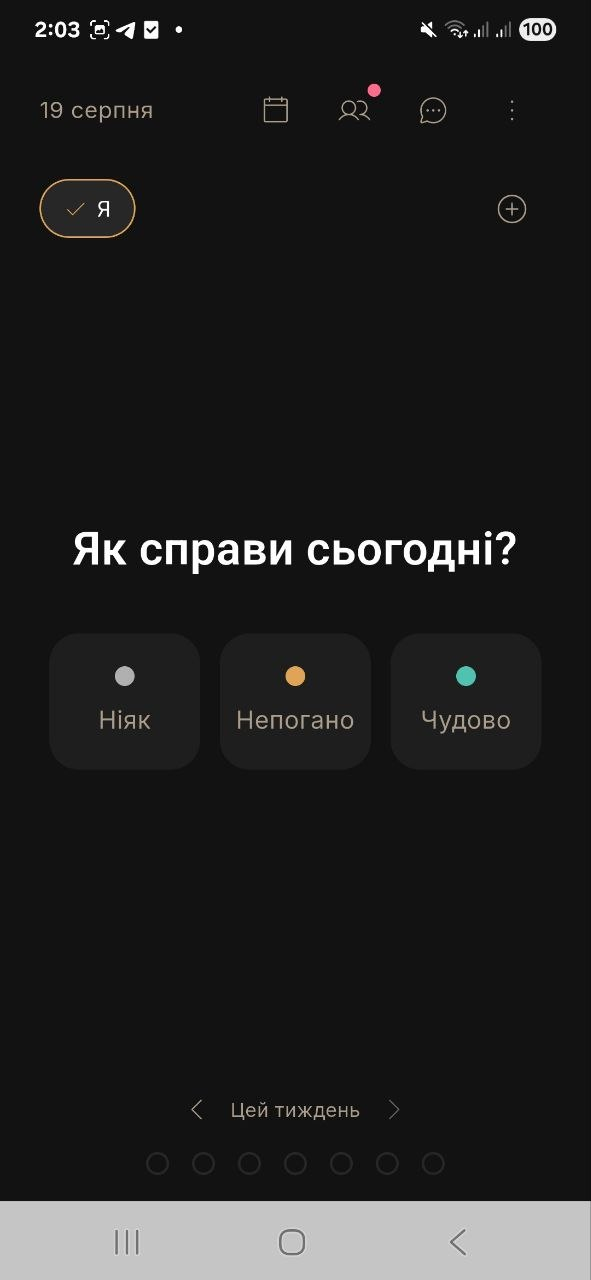
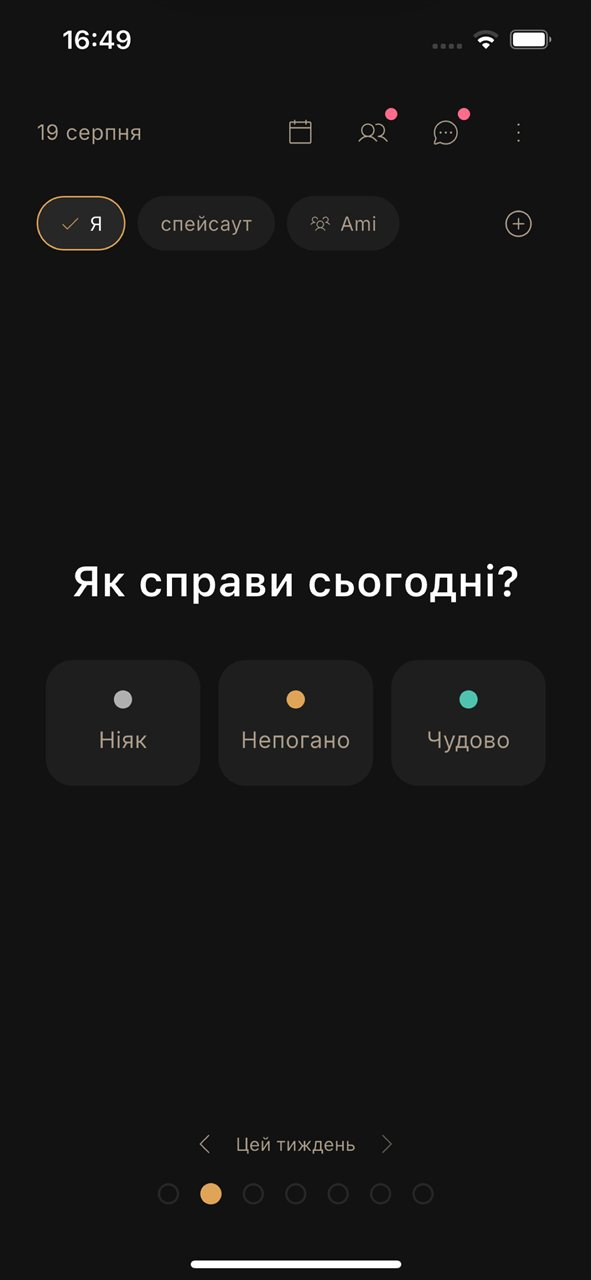
content: swap landing screenshots to iOS, tighten headline copy
Replace the Android screenshots with iPhone shots the user captured -
same two views (check-in home screen, day card), cropped/resized to
match the landing page's existing dimensions. Also shortens "Friends
and the guessing game" to "Friends and guessing" - the longer version
wrapped to an extra line on mobile widths.

diff --git a/landing/index.html b/landing/index.html
@@ -85,7 +85,7 @@
         <p>Keep a diary for a child or a pet, and open it up for someone in the family to see.</p>
       </article>
       <article class="feature">
-        <h2>Friends and the guessing game</h2>
+        <h2>Friends and guessing</h2>
         <p>Add people close to you, try to guess their mood, then leave a comment under the day.</p>
       </article>
       <article class="feature">
